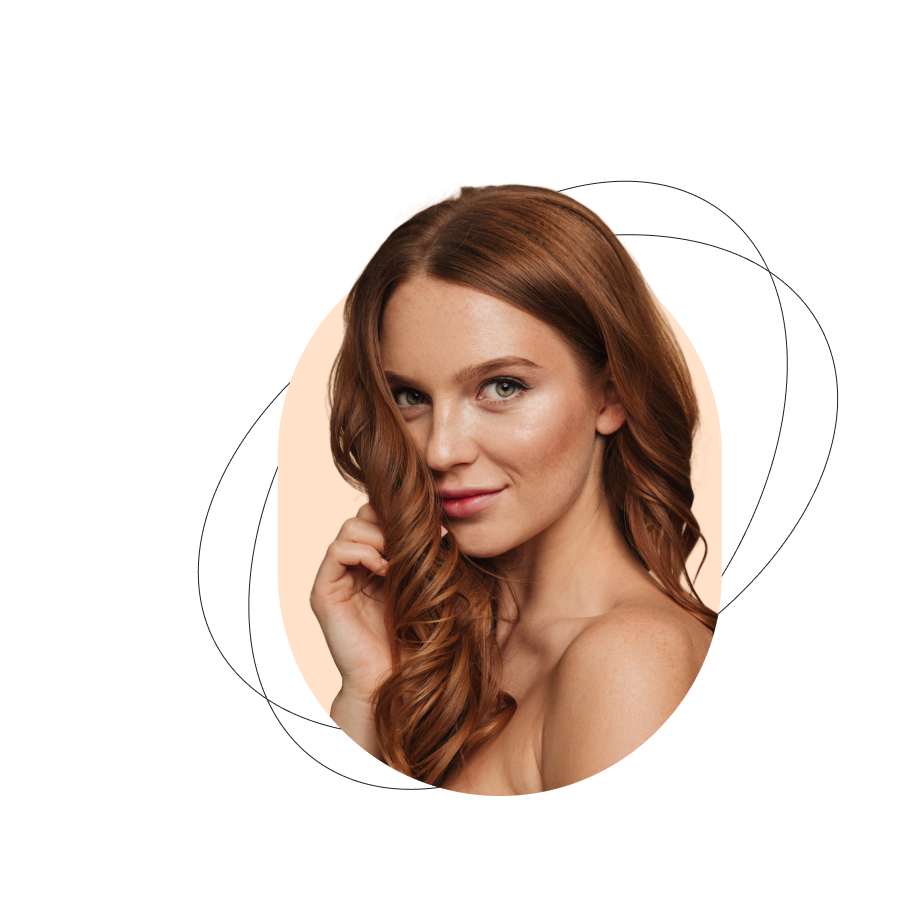
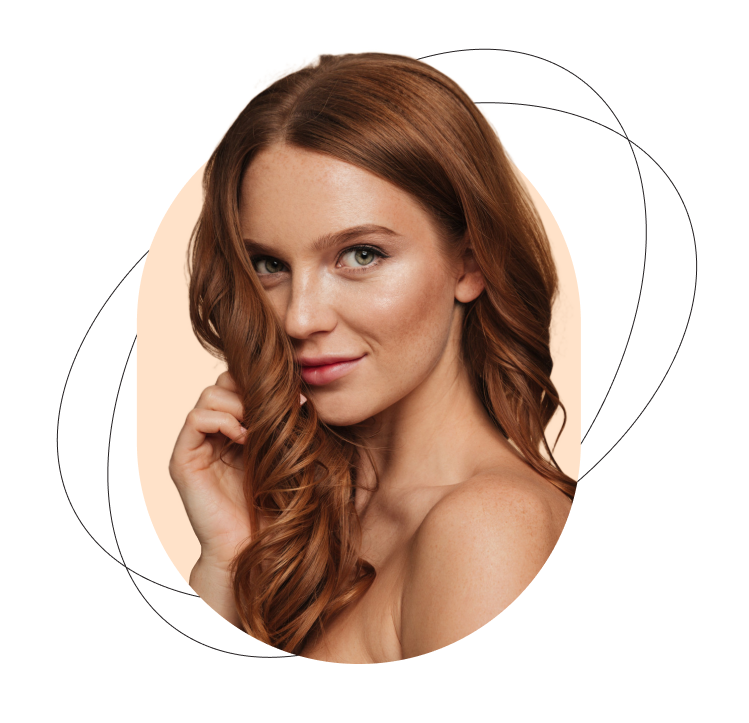
updated

diff --git a/src/Resources/public/css/style.css b/src/Resources/public/css/style.css
@@ -429,20 +429,23 @@
 .flip-box-order-1 {
     top: 0;
     left: 0;
-    width: 425px;
+    width: 100%;
+    max-width: 425px;
     height: 419px;
 }
 
 .flip-box-order-2 {
     right: 0;
-    width: 295px;
+    width: 100%;
+    max-width: 295px;
     height: 290px;
 }
 
 .flip-box-order-3 {
     top: 65%;
     right: 20%;
-    width: 445px;
+    width: 100%;
+    max-width: 445px;
     height: 468px;
 }
 
@@ -769,3 +772,235 @@
 }
 
 /* END FOOTER */
+
+@media (max-width: 1400px) {
+    .banner__wrapper::before {
+        display: none;
+    }
+
+    .banner__title {
+        order: 1;
+        font-size: 60px;
+        margin-bottom: 15px;
+    }
+
+    .banner__sub__title {
+        order: 1;
+    }
+
+    .benner__btn {
+        order: 1;
+    }
+
+    .banner__wrapper::after {
+        height: 100%;
+        position: inherit;
+    }
+
+    .banner__wrapper {
+        max-width: 100%;
+        height: 650px;
+    }
+
+    .banner__sub__title {
+        max-width: 100%;
+    }
+
+    .advantages__wrapper {
+        grid-template-columns: 1fr 1fr;
+    }
+
+    .service__cover::before {
+        display: none;
+    }
+
+    .service__text {
+        max-width: 100%;
+        color: #030303;
+        padding: 0;
+        margin-bottom: 25px;
+        font-size: 22px
+    }
+
+    .flip-box {
+        position: initial;
+    }
+
+    .service__wrapper {
+        position: relative;
+        height: auto;
+        display: flex;
+        justify-content: center;
+        flex-direction: column;
+    }
+
+    .test {
+        display: flex;
+        flex-wrap: wrap;
+        justify-content: center;
+        gap: 20px;
+    }
+
+    .title-p {
+        color: #030303;
+    }
+
+    .flip-img {
+        width: 100%;
+        height: 100%;
+    }
+
+    .section__service {
+        height: auto;
+    }
+
+    .footer__contact__wrapper {
+        display: flex;
+        flex-wrap: wrap;
+        gap: 25px;
+    }
+
+    .footer__nav__wrapper {
+        display: flex;
+        flex-wrap: wrap;
+        gap: 25px;
+    }
+
+    .footer__copyright__wrapper {
+        flex-wrap: wrap;
+    }
+
+
+}
+
+@media (max-width: 1200px) {
+    .banner__wrapper::before {
+        width: 70%;
+    }
+
+    .banner__wrapper::after {
+        height: 385px;
+        top: 320px;
+    }
+
+    .about__wrapper {
+        flex-direction: column;
+    }
+
+    .about-img {
+        width: 100%;
+        margin-bottom: 30px;
+    }
+
+    .benefits__wrapper {
+        display: flex;
+        flex-wrap: wrap;
+        justify-content: center;
+        gap: 30px;
+    }
+
+}
+
+@media (max-width: 991px) {
+    .advantages__wrapper {
+        grid-template-columns: 1fr;
+    }
+
+    .advantages__box {
+        align-items: center;
+    }
+
+    .advantages__text {
+        text-align: center;
+    }
+
+    .slick-arrow {
+        top: auto;
+        bottom: -40px;
+    }
+
+    .footer__wrapper {
+        position: relative;
+        display: flex;
+        flex-direction: column-reverse;
+    }
+
+    .footer__nav__container {
+        display: flex;
+        gap: 25px;
+        justify-content: flex-start;
+        flex-wrap: wrap;
+    }
+
+    .footer__copyright__box {
+        display: flex;
+        justify-content: flex-start;
+        align-items: center;
+        gap: 35px;
+        flex-wrap: wrap;
+    }
+
+    .footer__copyright__wrapper {
+        flex-wrap: wrap;
+        gap: 25px;
+    }
+
+    .footer__wrapper {
+        margin-bottom: 0px;
+    }
+
+}
+
+@media (max-width: 768px) {
+
+    .section__banner {
+        margin-bottom: 80px;
+    }
+
+    .page-adv {
+        margin-bottom: 80px;
+    }
+
+    .benner__btn {
+        width: 100%;
+    }
+
+    .banner__title {
+        font-size: 45px;
+    }
+
+    .banner__sub__title {
+        font-size: 22px;
+        margin-bottom: 30px;
+    }
+
+    .content__text-italic {
+        font-size: 18px;
+    }
+
+    .about__content__text {
+        font-size: 18px;
+        padding-left: 0;
+    }
+
+    .about__content__box img {
+        width: 100%;
+    }
+
+    .page__title {
+        font-size: 45px;
+    }
+
+    .advantages__title {
+        font-size: 24px;
+        text-align: center;
+    }
+
+    .flip-box-back>ul>li>a {
+        font-size: 20px;
+    }
+
+    .benefits__title {
+        font-size: 28px;
+    }
+}

diff --git a/index.html b/index.html
@@ -25,7 +25,7 @@
 
 <body>
 
-    <header class="header">
+    <header style="display: none;" class="header">
         <div class="container">
             <div class="header__wrapper">
                 <a class="header__logo" href="#"><img src="./src/Resources/public/img/logo.svg" alt="sharm-logo"></a>
@@ -133,6 +133,7 @@
                 <div class="service__wrapper">
                     <p class="service__text">At Charm, we specialize in a variety of hair care services to cater to your
                         unique needs, ensuring optimal results and satisfaction.</p>
+                        <div class="test">
                     <div class="flip-box flip-box-order-1">
                         <div class="flip-box-inner">
                             <div class="flip-box-front">
@@ -183,6 +184,7 @@
                             </div>
                         </div>
                     </div>
+                </div>
                 </div>
             </div>
         </section>

diff --git a/src/Resources/public/js/main.js b/src/Resources/public/js/main.js
@@ -5,5 +5,21 @@ $('.slider__gallery').slick({
     infinite: false,
     arrows: true,
     prevArrow:"<img class='slick-arrow slick-prev-c' src='./src/Resources/public/img/slider-img/slider-arrow-left.svg'>",
-    nextArrow:"<img class='slick-arrow slick-next-c' src='./src/Resources/public/img/slider-img/slider-arrow-right.svg'>"
+    nextArrow:"<img class='slick-arrow slick-next-c' src='./src/Resources/public/img/slider-img/slider-arrow-right.svg'>",
+    responsive: [
+      {
+        breakpoint: 1200,
+        settings: {
+          slidesToShow: 3,
+          slidesToScroll: 1,
+        },
+      },
+      {
+        breakpoint: 991,
+        settings: {
+          slidesToShow: 2,
+          slidesToScroll: 1,
+        },
+      },
+    ],
   });

diff --git a/src/Resources/public/css/reset.css b/src/Resources/public/css/reset.css
@@ -29,8 +29,8 @@ footer, header, hgroup, menu, nav, section {
 	display: block;
 }
 
-html{ 
-	overflow-x: hidden;
+html, body {
+    overflow-x: hidden;
 }
 body {
 	line-height: normal;
